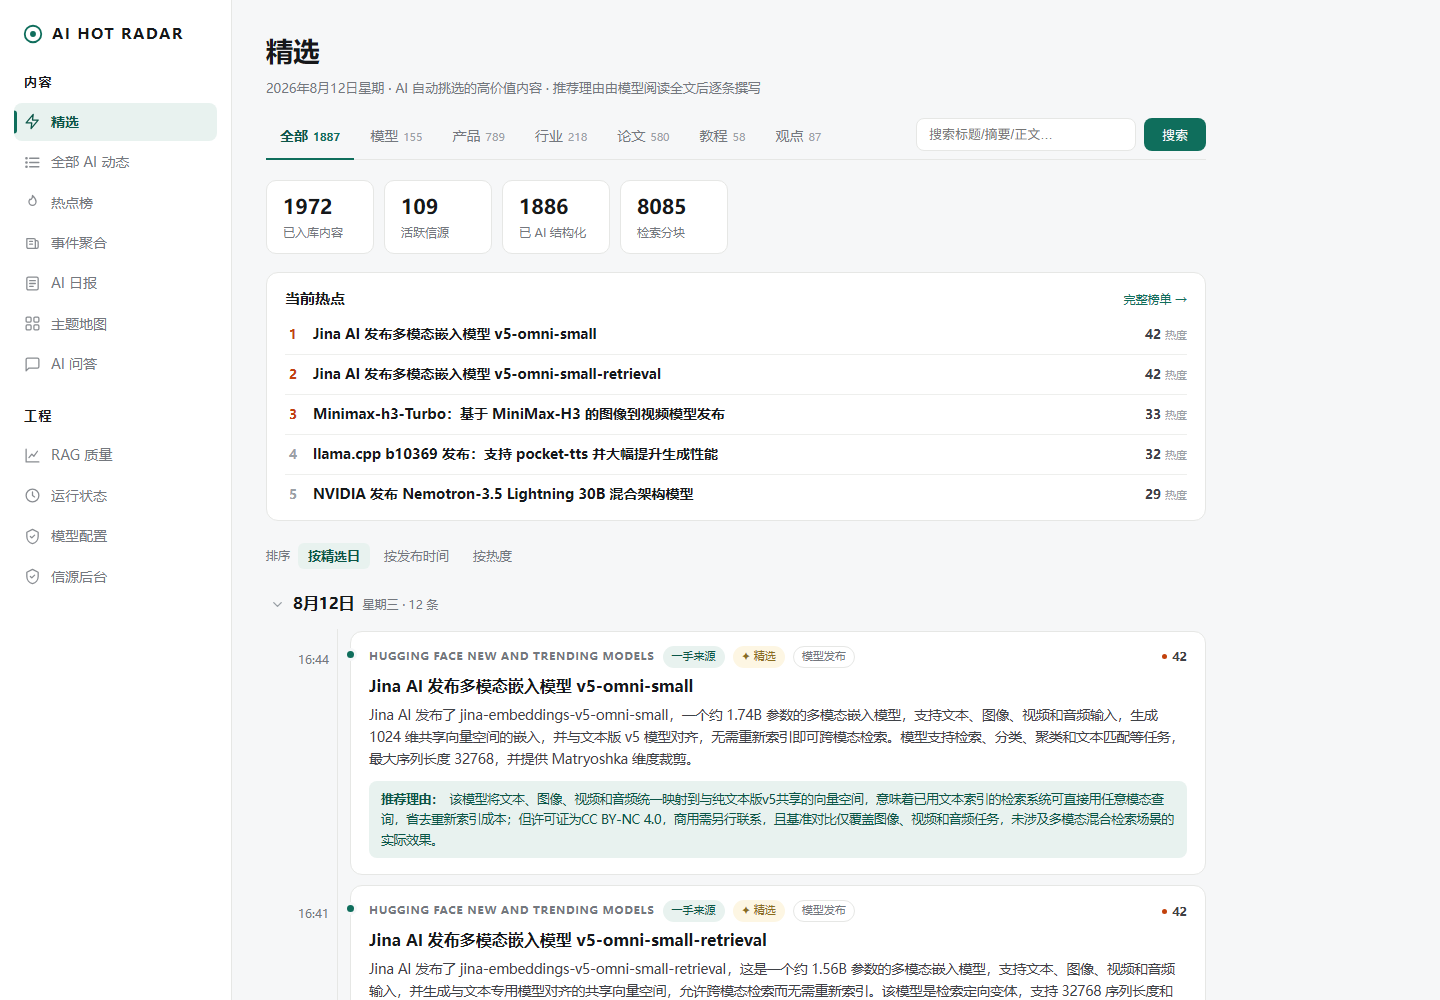
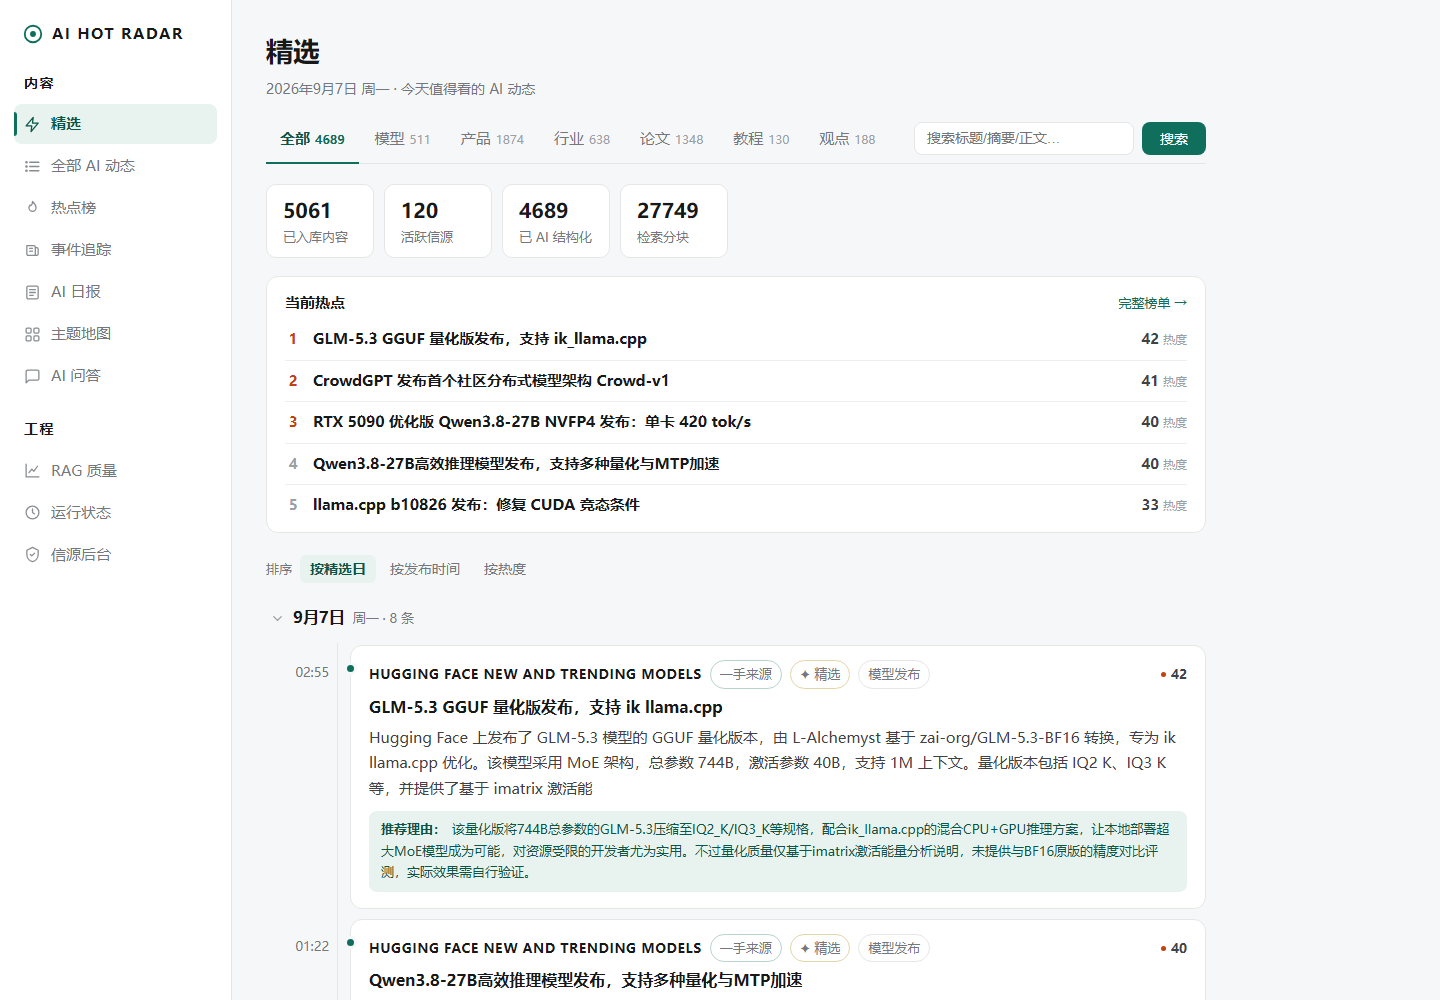
docs: 截图更新到当前生产，技术栈表格改成分层架构图
截图是 2026-08-19 拍的，首页数字停在 1972 内容 / 109 信源 / 8085 分块，
而生产实际是 5061 / 120 / 27749。README 里的截图和它自己链接过去的线上站
对不上，比不放截图损失更大。

用 Playwright 按原尺寸 1440x1000 重拍四张，脚本存进 scripts/refresh-screenshots.mjs
以后可复现。问答那张换成一条 6 引用、平均支持度 0.987 的真实记录，
正文里 [1]~[6] 的引用标记清晰可见——正好是"每句话都能回跳原文"的证据，
比旧图有说服力。

技术栈从六行表格改成分层 text 架构图：浏览器 → Caddy → Next.js →
Core API / AI Service 双服务 → PostgreSQL 唯一事实源 + Redis 可重建缓存，
外加外置模型 API 与交付链两块。表格只能列"用了什么"，图能看出
"谁调谁、事实存在哪、哪层丢了不影响正确性"。

宽度控制在 91 列以内（含中文双宽），GitHub 上不会横向滚动。

diff --git a/README.md b/README.md
@@ -151,14 +151,45 @@ app/ask/ → app/api/ask/route.ts（同源代理）
 
 ## 技术栈
 
-| 层 | 选型 |
-|---|---|
-| 前端 | Next.js 15.5.23（App Router、SSR、同源代理） |
-| 业务 API | Java 21 + Spring Boot 3.4.1（读接口、报告、订阅、RBAC 审计） |
-| AI 服务 | Python 3.12 + FastAPI（采集、加工、检索、问答） |
-| 数据 | PostgreSQL 16 + pgvector（唯一事实源）· Redis（缓存 / 限流 / 短锁） |
-| 模型 | bge-m3 嵌入 · bge-reranker-v2-m3 重排 · DeepSeek 生成（全部外置 API） |
-| 交付 | GitHub Actions 五路门禁 → GHCR 不可变 `sha-<commit>` 镜像 → Docker Compose + Caddy |
+```text
+                              浏览器
+                                │ HTTPS
+┌───────────────────────────────▼────────────────────────────────────┐
+│ Caddy 2              自动 TLS · 反向代理 · 安全响应头                │
+└───────────────────────────────┬────────────────────────────────────┘
+┌───────────────────────────────▼────────────────────────────────────┐
+│ Next.js 15.5.23      SSR · App Router · 同源 /api 代理              │
+│ React 19 · TypeScript                                              │
+└─────────────┬──────────────────────────────┬───────────────────────┘
+              │ 内容 / 报告 / 订阅             │ 检索 / 问答
+┌─────────────▼──────────────┐  ┌────────────▼───────────────────────┐
+│ Core API                   │  │ AI Service                         │
+│ Java 21 · Spring Boot 3.4.1│  │ Python 3.12 · FastAPI              │
+│ ────────────────────────── │  │ ────────────────────────────────── │
+│ 稳定读接口 · 报告发布       │  │ 采集 adapter · 全文门 · 结构化切块   │
+│ 双确认订阅 · 邮件投递       │  │ 三路召回 · RRF · 重排 · 引用绑定     │
+│ RBAC · 操作审计            │  │ ─────────────────────────────────  │
+│ Flyway 28 个迁移           │  │ scheduler · pipeline · monitor      │
+│                            │  │ backup（同镜像，不同入口）           │
+└─────────────┬──────────────┘  └────────────┬───────────────────────┘
+              └───────────────┬──────────────┘
+┌─────────────────────────────▼──────────────────────────────────────┐
+│ PostgreSQL 16 + pgvector          唯一事实源                        │
+│ 内容 · 正文版本 · 向量 · 状态机 · 发布记录 · 引用 · 审计               │
+├────────────────────────────────────────────────────────────────────┤
+│ Redis 7                           可重建，丢了不影响正确性            │
+│ 缓存 · 限流计数 · 短锁 · 会话热副本 · 30 秒运行统计                   │
+└────────────────────────────────────────────────────────────────────┘
+
+外置模型 API（不自建推理，2C4G 单机跑不动也不必跑）
+  ├─ SiliconFlow · bge-m3                 嵌入，1024 维
+  ├─ SiliconFlow · bge-reranker-v2-m3     重排 + 支持度打分
+  └─ DeepSeek    · v4-flash               生成，可在数据库热切换
+
+交付链
+  GitHub Actions 五路门禁 → GHCR 不可变 sha-<commit> 镜像 → Compose 拉起 → 公网 smoke
+  规格校验 · Python · Java · Web · 空库迁移        回滚 = IMAGE_TAG 改回上一个
+```
 
 生产数据快照（2026-09-07，历史快照，非实时承诺）：登记信源 151 / 允许调度 139 /
 运行态 ACTIVE 120，内容 5061（已结构化 4689），检索分块 27749，跨源事件 3213。
